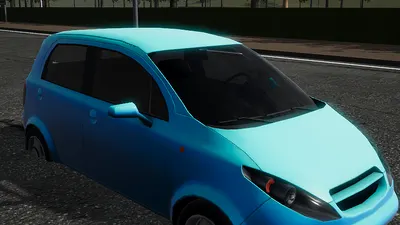
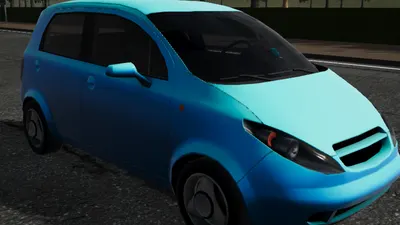
Show km/h by default; garage pictures with wheels on the road
- Speeds and limit signs in km/h (60 in towns, 120 outside); existing
  players are switched over once, then the Settings choice sticks
- Remade the 20 vehicle pictures: they were placed 20 cm into the road

diff --git a/src/quality.js b/src/quality.js
@@ -8,11 +8,20 @@ export const PRESETS = {
 export const LEVELS = ["low", "medium", "high"];
 
 const KEY = "drivingGame.settings.v1";
-const DEFAULTS = { graphics: "auto", units: "mph", showFps: true, cameraMode: 0, sound: true, weather: "sunny", car: "gt-red", hour: 10, fuel: 1, fuelMode: "real" };
+const DEFAULTS = { graphics: "auto", units: "kmh", showFps: true, cameraMode: 0, sound: true, weather: "sunny", car: "gt-red", hour: 10, fuel: 1, fuelMode: "real" };
 
 export function loadSettings() {
   try {
-    return { ...DEFAULTS, ...JSON.parse(localStorage.getItem(KEY) || "{}") };
+    const saved = JSON.parse(localStorage.getItem(KEY) || "{}");
+    const settings = { ...DEFAULTS, ...saved };
+    // Speeds and limits show in km/h now (the signs read 60 in towns, 120
+    // outside). Everyone is switched over once; after that the choice in
+    // Settings sticks.
+    if (!saved.kmhSwitched) {
+      settings.units = "kmh";
+      settings.kmhSwitched = true;
+    }
+    return settings;
   } catch {
     return { ...DEFAULTS };
   }

diff --git a/index.html b/index.html
@@ -122,9 +122,9 @@
       </div>
 
       <div id="speedo" class="speedo">
-        <div class="limit" aria-label="Speed limit"><span id="limit-num">30</span></div>
+        <div class="limit" aria-label="Speed limit"><span id="limit-num">60</span></div>
         <span id="speed">0</span>
-        <span id="unit">mph</span>
+        <span id="unit">km/h</span>
         <div id="fuel" class="fuel" aria-label="Fuel left">
           <svg class="fuel-icon" viewBox="0 0 24 24"><g class="icon-pump"><path d="M5 20V5.5A1.5 1.5 0 0 1 6.5 4h6A1.5 1.5 0 0 1 14 5.5V20M3.5 20h12M7 8.5h5" /><path d="M14 11h1.2a1.3 1.3 0 0 1 1.3 1.3v3.2a1.5 1.5 0 0 0 3 0V8.5L17 6" /></g><path class="icon-bolt" d="M13.5 3 6 13.5h5.2L10 21l7.5-10.5h-5.2z" /></svg>
           <div class="fuel-bar"><i id="fuel-fill"></i></div>
